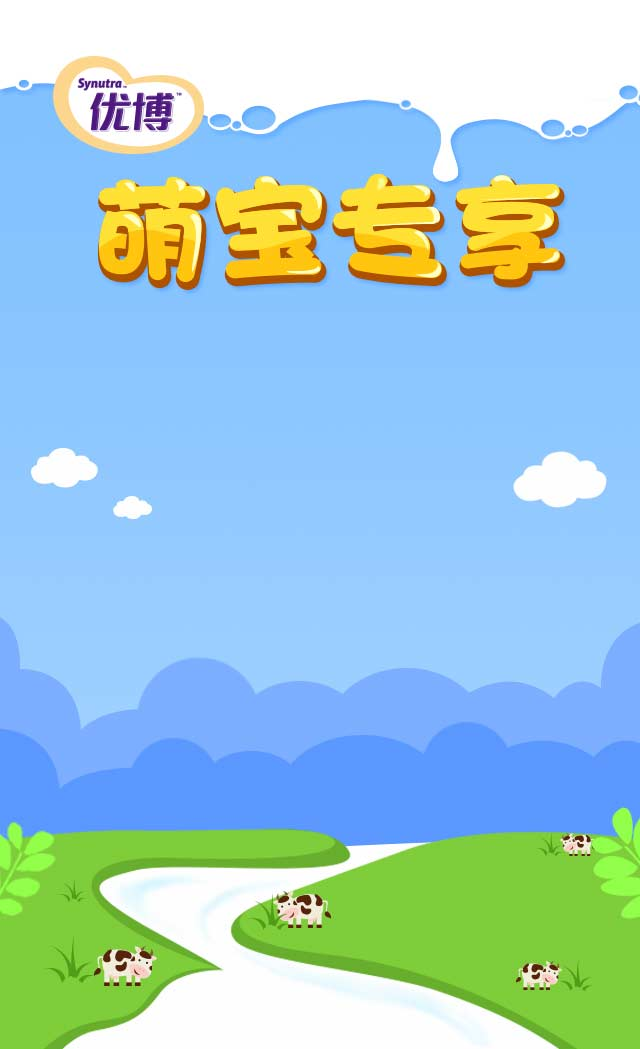
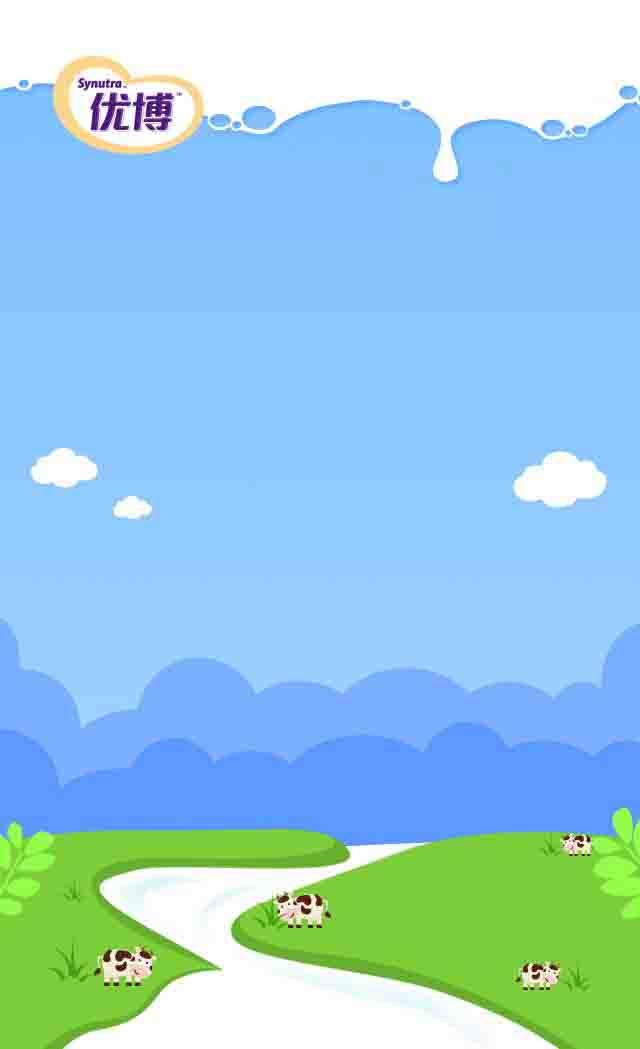
baby

diff --git a/css/base.css b/css/base.css
@@ -6,26 +6,47 @@ input{border: none;}
 button{border: none;}
 ol,ul,li {;list-style: none;}
 /*******************/
-img{display: block}
+img{display: block; }
 .pr{position: relative}
 .pa{position: absolute}
 .none{display: none}
 /*******************/
 body{width: 320px;overflow: hidden;}
-.bg{width: 320px;left: 0;top: 0;z-index: 0}
+.bg{width: 320px;left: 0;top: 0;z-index: 0;pointer-events: none;}
+.fc{width: 280px;top: 267px;left: 5px;pointer-events: none;}
+.guide{width: 100px;height: 50px;top: 20px;right: 0;text-align: center}
+.guide img{width: 60px;margin-top: 10px;margin-left: 10px}
 .t{top: 87px;left: 0}
-.t img{width: 60px;}
+.t img{width: 60px;pointer-events: none;}
 .t .t1{left: 40px;-webkit-animation: textRock1 .5s 1}
 .t .t2{left: 100px;-webkit-animation: textRock2 .5s 1}
 .t .t3{left: 160px;-webkit-animation: textRock3 .5s 1}
 .t .t4{left: 220px;-webkit-animation: textRock4 .5s 1}
 .ping{width: 150px;left: 0;right: 0;margin: auto;top: 239px;-webkit-animation: pRock .3s 1}
 .cloud{left: 0;right: 0;margin: auto;width: 268px;top: 144px;}
-.cloud .y1{left: 0;right:0;margin: auto;top: 70px;width: 46px;opacity: 0;-webkit-transition: opacity .2s ease}
-.cloud .y2{left: 0;right:0;margin: auto;top: 50px;width: 109px;opacity: 0;-webkit-transition: opacity .5s ease}
-.cloud .y3{left: 0;right:0;margin: auto;top: 10px;width: 211px;-webkit-transform: scale(0,0);-webkit-transition: all .5s ease}
+.cloud .y1{left: 0;right:0;margin: auto;top: 70px;width: 46px;opacity: 0;-webkit-transition: opacity .2s ease;pointer-events: none;}
+.cloud .y2{left: 0;right:0;margin: auto;top: 50px;width: 109px;opacity: 0;-webkit-transition: opacity .5s ease;pointer-events: none;}
+.cloud .y3{left: 0;right:0;margin: auto;top: 10px;width: 211px;-webkit-transform: scale(0,0);-webkit-transition: all .5s ease;pointer-events: none;}
 .pai{width: 85px;top: 417px;right: 50px;-webkit-animation: rock 1s infinite}
-.hand{width: 34px;top: 417px;right: 30px;-webkit-animation: handChange 1s  infinite}
+.hand{width: 34px;top: 417px;right: 30px;-webkit-animation: handChange 1s  infinite;pointer-events: none;}
+.tips{width:320px;height: 480px;left: 0;right: 0;top: 60px;margin:auto;}
+.tips img{left: 0;right: 0;top: 0;bottom: 0;margin:auto;width: 270px;pointer-events: none;}
+.tips .close{display: block;right: 50px;;top:90px;width: 50px;height: 50px;}
+.form{width:320px;height: 480px;left: 0;right: 0;top: 60px;margin:auto;}
+.form img{left: 0;right: 0;top: 0;bottom: 0;margin:auto;width: 268px;pointer-events: none;}
+.form .close{display: block;right: 40px;;top:110px;width: 50px;height: 50px;}
+.form .name{width: 150px;height: 25px;top: 195px;left: 100px;background: rgba(0,0,0,0);border: none;outline: none;color: #ffffff}
+.form .mobile{width: 150px;height: 25px;top: 250px;left: 100px;background: rgba(0,0,0,0);border: none;outline: none;color: #ffffff}
+.form .submit{width: 100px;height: 50px;top: 290px;left: 110px;background: rgba(0,0,0,0);border: none;outline: none;}
+.upload{right: 0;left: 0;top: 160px;margin: auto;width: 320px;height: 480px}
+.cvs{background: url("../images/pf.png") no-repeat;background-size: 200px 144px;right: 0;left: 0;top: 5px;margin: auto;width: 200px;height: 144px;z-index: 1}
+#cvs{right: 0;left: 0;top: 5px;margin: auto;}
+.evert{display: block;width: 30px;height: 30px;right: 0px;}
+.upload img{width: 100px;top: 210px}
+.go-index{left: 40px}
+.up{right: 40px}
+.reset{left: 40px}
+.sub{right: 40px}
 @-webkit-keyframes textRock1 {
     0%{left: 40px;top: 0px}
     33%{left: 38px;top: -2px}

diff --git a/index.html b/index.html
@@ -5,11 +5,13 @@
     <meta name="viewport" content="initial-scale=1, maximum-scale=1, user-scalable=no">
     <title>优博</title>
     <link rel="stylesheet" href="css/base.css">
-    <script src="js/func.js"></script>
+    <script src="js/func.js" charset="UTF-8"></script>
+    <script src="//cdn.bootcss.com/jquery/2.1.4/jquery.js"></script>
 </head>
 <body class="pr">
-    <img class="pa bg" src="images/bg.jpg">
-    <div></div>
+    <img class="pa bg" src="images/bg1.jpg">
+    <img class="pa fc" src="images/fengche.png">
+    <div class="pa guide"><img src="images/tips-t.jpg"></div>
     <div class="pa t">
         <img class="pa t1 none" src="images/t1.png">
         <img class="pa t2 none" src="images/t2.png">
@@ -24,6 +26,29 @@
     <img class="pa ping" src="images/ping.png">
     <img class="pa pai" src="images/pai.png">
     <img class="pa hand" src="images/hand.png">
+    <div class="pa tips none">
+        <img class="pa" src="images/tips.png">
+        <span class="pa close"></span>
+    </div>
+    <div class="pa form none">
+        <img class="pa" src="images/form.png">
+        <span class="pa close"></span>
+        <input class="pa name" type="text">
+        <input class="pa mobile" type="text">
+        <button class="pa submit"></button>
+    </div>
+    <div class="pa upload none">
+        <div class="pa cvs">
+            <span class="pa evert"></span>
+        </div>
+        <canvas class="pa" id="cvs" width="200" height="144"></canvas>
+        <canvas style="opacity: 0;position: absolute;border: solid #ffffff 1px" id="canvas" width="600" height="400"></canvas>
+
+        <img class="pa go-index" src="images/go-index.png">
+        <img class="pa reset none" src="images/btn-reset.png">
+        <img class="pa up" src="images/btn-upload.png">
+        <img class="pa sub none" src="images/btn-submit.png">
+    </div>
 </body>
-<script src="js/logic.js"></script>
+<script src="js/logic.js?v=1" charset="UTF-8"></script>
 </html>

diff --git a/success.html b/success.html
@@ -1,0 +1,20 @@
+<!DOCTYPE html>
+<html lang="en">
+<head>
+    <meta charset="UTF-8">
+    <meta name="viewport" content="initial-scale=1, maximum-scale=1, user-scalable=no">
+    <title></title>
+</head>
+<body style="margin: 0">
+<img src="images/success.jpg" width="320" style="border: none">
+</body>
+<script>
+
+    function resetPage() {
+        var deviceWidth = document.documentElement.clientWidth,
+                scale = deviceWidth / 320;
+        document.body.style.zoom = scale;
+    }
+    resetPage()
+</script>
+</html>

diff --git a/test.html b/test.html
@@ -40,6 +40,7 @@
         inputObj.accept = 'image/*';
         inputObj.id = id;
         inputObj.click();
+        var d='http://test.zhangkuo.net/advmessage/advimage/saveImgJsonP.action?advid=30380&imagebase64=1235&resultid='
     }
 
 
